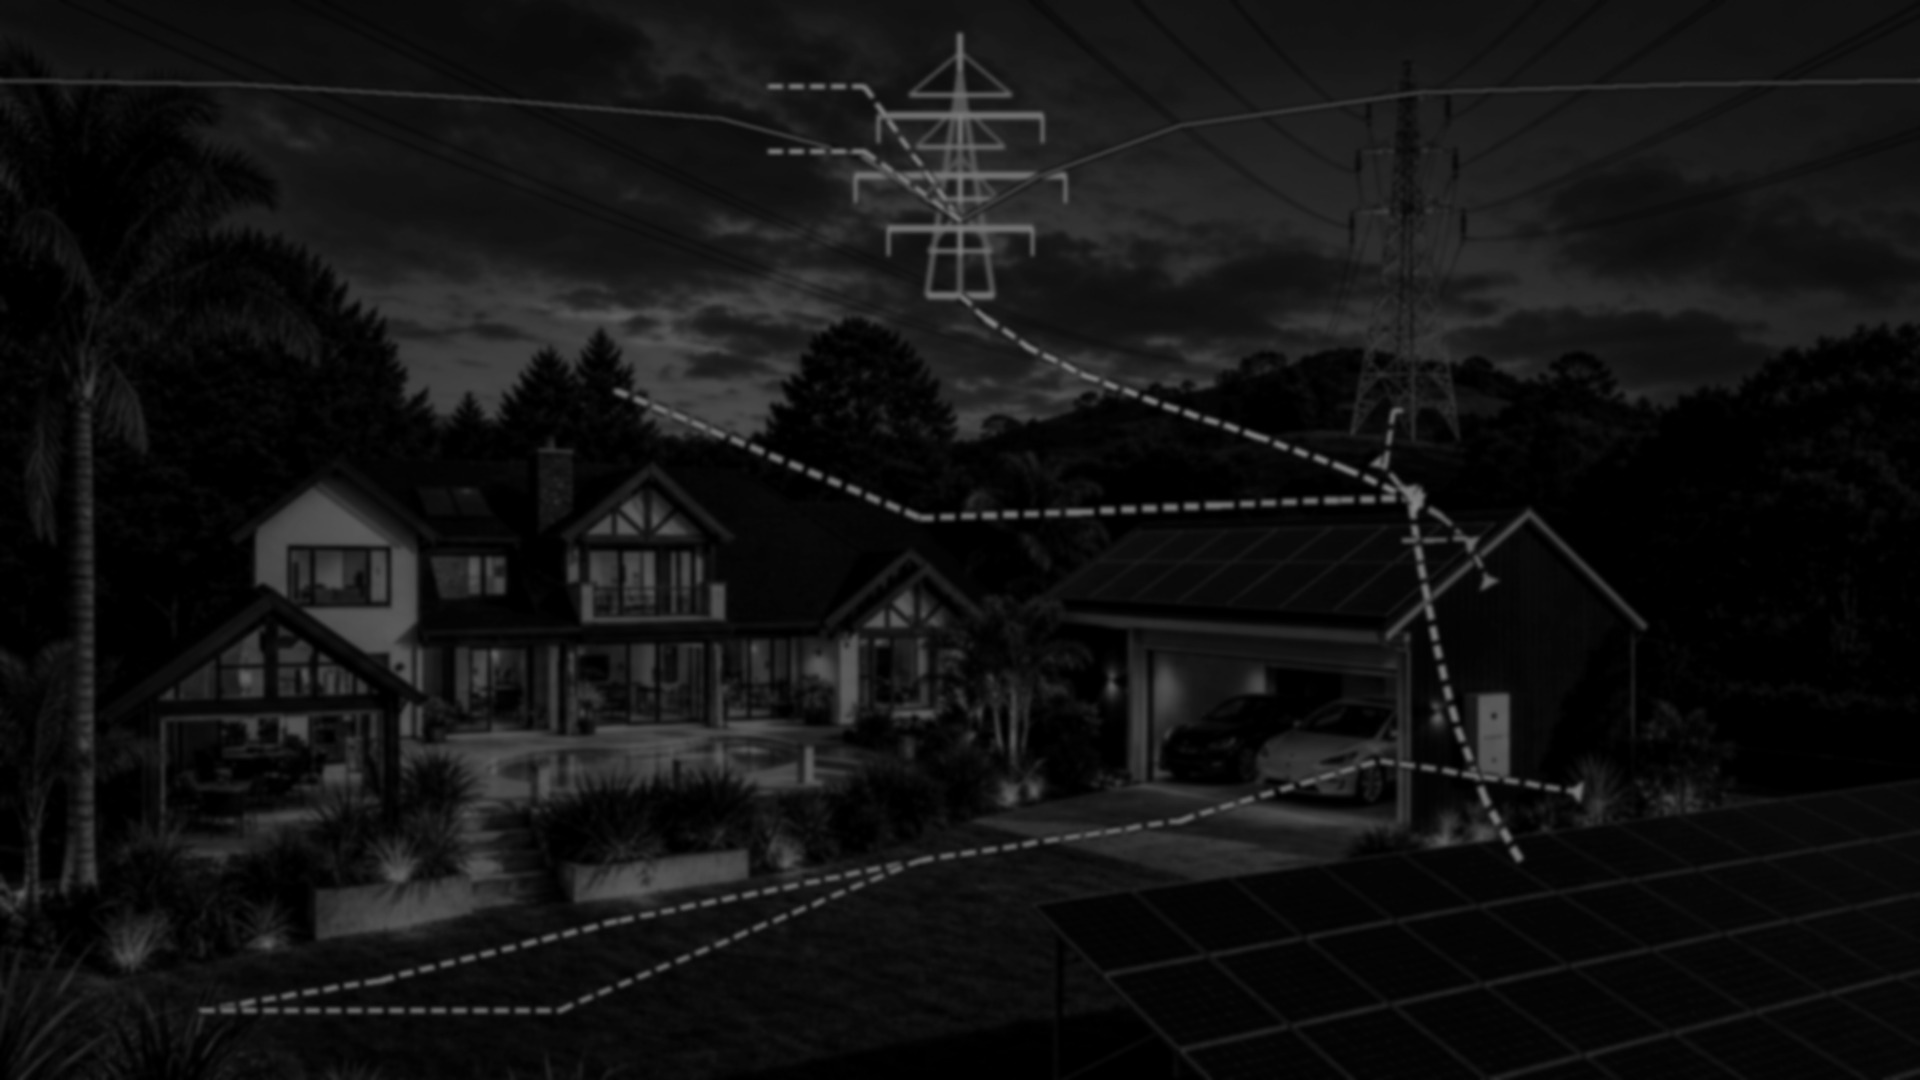
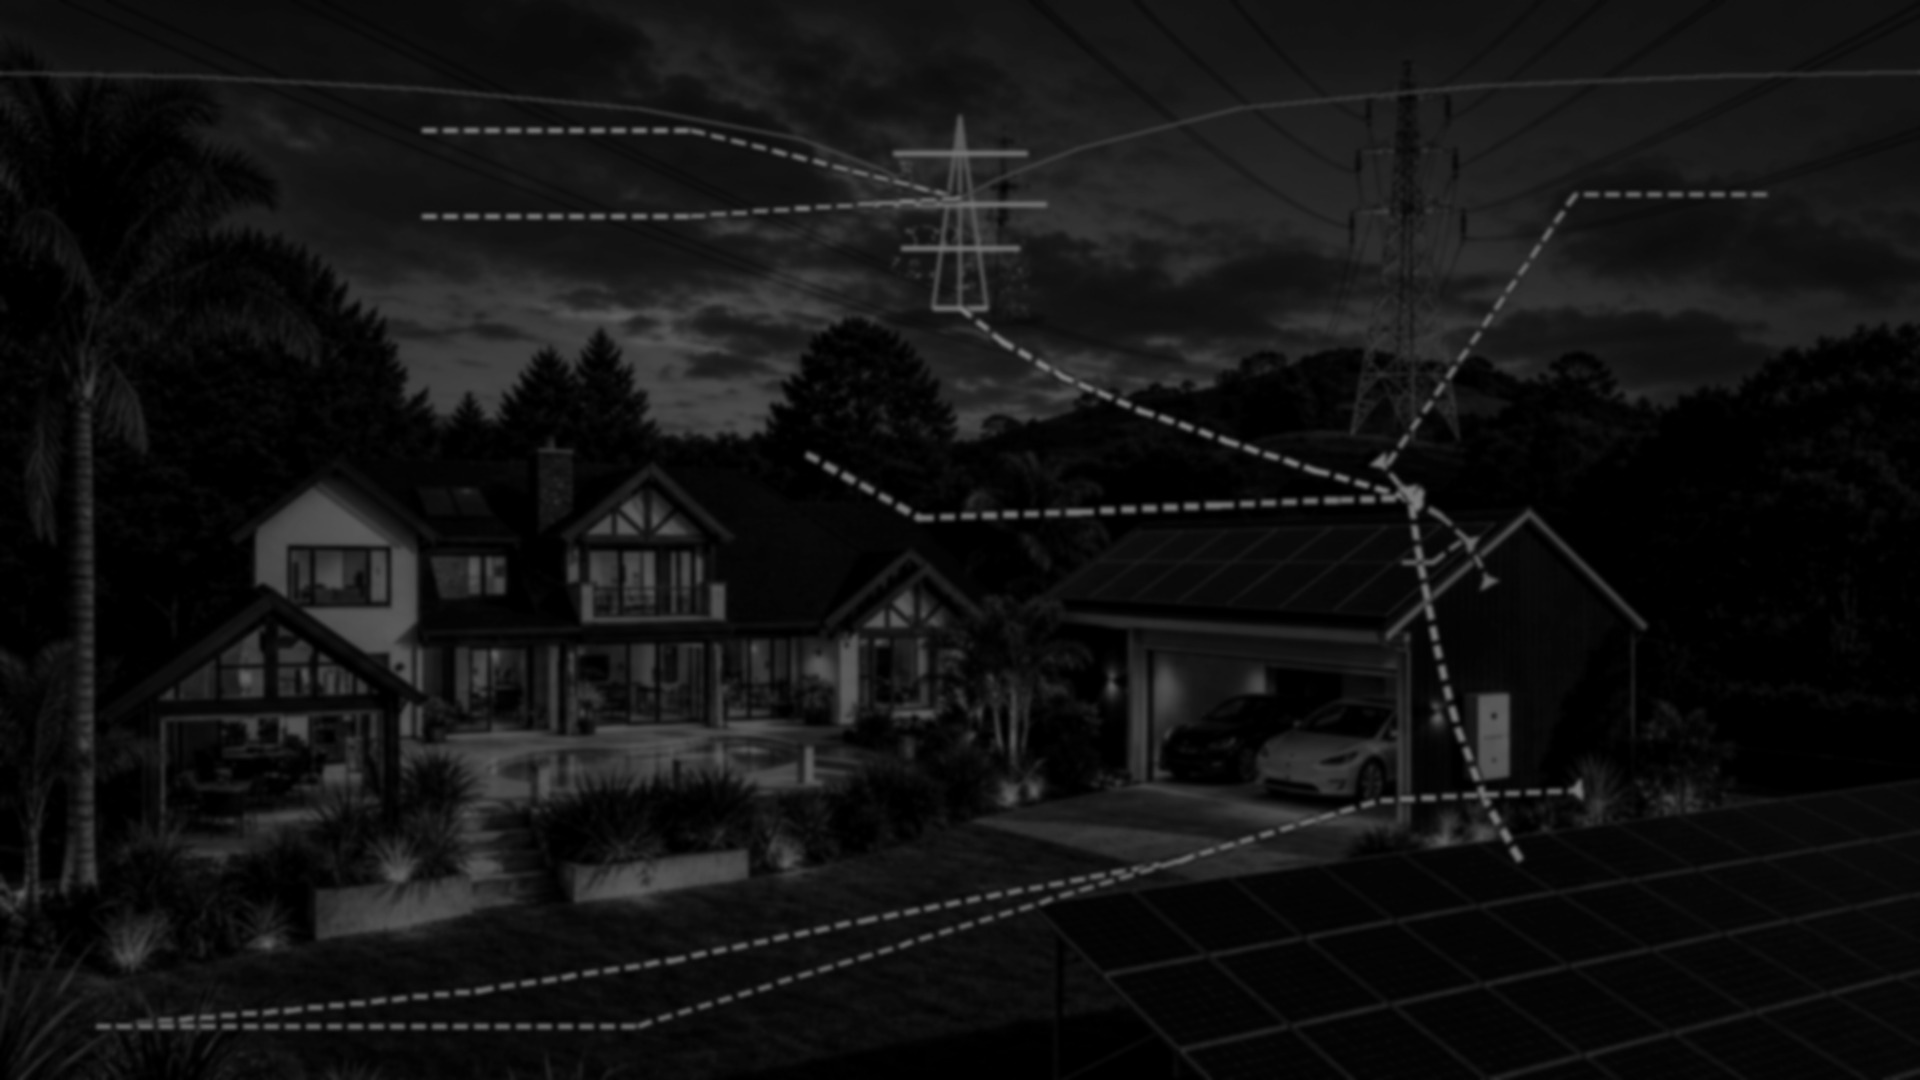
Bake lattice pylon into v4 backgrounds and Serpo card layout.
Composite reference tower sprite onto the hill with thick HV lines and white site feed to the garage; reposition cards with 5% margins so grid use sits left of the house near the tower.

diff --git a/home-assistant/solar-dashboard/scripts/build_v4_backgrounds.py b/home-assistant/solar-dashboard/scripts/build_v4_backgrounds.py
@@ -1,5 +1,5 @@
 #!/usr/bin/env python3
-"""Build v4: dark-contrast CGI + drawn lattice pylon + high-visibility flow lines."""
+"""Build v4: dark-contrast CGI + composited lattice pylon + high-visibility flow lines."""
 
 from __future__ import annotations
 
@@ -11,26 +11,34 @@ from PIL import Image, ImageDraw, ImageEnhance, ImageFilter
 
 ROOT = Path(__file__).resolve().parents[1]
 MASTER = ROOT / "www" / "solar-dashboard" / "backgrounds" / "v4" / "master-clear.png"
+PYLON_REF = ROOT / "www" / "solar-dashboard" / "assets" / "pylon-reference.png"
 OUT = ROOT / "www" / "solar-dashboard" / "backgrounds" / "v4"
 SIZE = (1920, 1080)
 
+# Hill crest (user red arrow) — lattice tower on distant hill
+PYLON_CX = 960
+PYLON_BASE_Y = 308
+PYLON_WIDTH_PX = 168
+PYLON_MAX_HEIGHT_PX = 300
+
 SITE = {
-    "pylon": (960, 220),
-    "pylon_base": (960, 295),
+    "pylon": (PYLON_CX, 198),
+    "pylon_base": (PYLON_CX, PYLON_BASE_Y),
     "inverter": (1410, 498),
     "battery_wall": (1385, 468),
     "ev_charger": (1465, 538),
     "array_field": (1570, 790),
-    "house_tie": (615, 390),
+    "house_tie": (806, 454),
 }
 
+# Pixel stubs aligned to Serpo-style card positions in solar_dashboard.yaml
 CARD_STUBS = {
-    "grid": ((768, 86), "pylon"),
-    "grid_details": ((768, 151), "pylon"),
-    "home": ((614, 389), "house_tie"),
-    "battery": ((1402, 410), "battery_wall"),
-    "garage": ((1402, 540), "ev_charger"),
-    "solar_array": ((200, 1010), "array_field"),
+    "grid": ((422, 130), "pylon"),
+    "grid_details": ((422, 216), "pylon"),
+    "home": (SITE["house_tie"], "house_tie"),
+    "battery": ((1766, 194), "battery_wall"),
+    "garage": ((1402, 562), "ev_charger"),
+    "solar_array": ((96, 1026), "array_field"),
 }
 
 ROUTES = {
@@ -43,22 +51,22 @@ ROUTES = {
         SITE["inverter"],
     ],
     "array_card_to_field": [
-        (200, 1010),
-        (380, 980),
-        (620, 920),
-        (920, 860),
-        (1180, 820),
-        (1380, 760),
+        (96, 1026),
+        (288, 1010),
+        (480, 990),
+        (672, 960),
+        (864, 920),
+        (1180, 860),
+        (1380, 800),
         SITE["array_field"],
     ],
     "grid_pylon_to_inverter": [
         SITE["pylon_base"],
-        (985, 318),
-        (1025, 345),
-        (1085, 375),
-        (1165, 405),
-        (1255, 435),
-        (1345, 468),
+        (1000, 340),
+        (1060, 375),
+        (1140, 410),
+        (1225, 440),
+        (1315, 470),
         SITE["inverter"],
     ],
     "house_to_inverter": [
@@ -75,9 +83,29 @@ ROUTES = {
 }
 
 HV_LINES = {
-    "from_left": [(0, 80), (240, 84), (480, 98), (720, 118), (860, 155), (920, 195), SITE["pylon"]],
-    "from_right": [(1919, 80), (1680, 84), (1420, 92), (1180, 125), (1040, 175), SITE["pylon"]],
+    "from_left": [
+        (0, 72),
+        (200, 76),
+        (420, 88),
+        (640, 108),
+        (800, 138),
+        (880, 168),
+        (920, 188),
+        SITE["pylon"],
+    ],
+    "from_right": [
+        (1919, 72),
+        (1720, 76),
+        (1480, 86),
+        (1240, 108),
+        (1080, 148),
+        (1000, 178),
+        SITE["pylon"],
+    ],
 }
+
+HV_COLOUR = "#2a2a30"
+HV_HIGHLIGHT = "#e0e8f0"
 
 
 def crop_16_9(img: Image.Image) -> Image.Image:
@@ -102,42 +130,89 @@ def darken_master(img: Image.Image) -> Image.Image:
     return img
 
 
+def _key_sprite_background(img: Image.Image) -> Image.Image:
+    """Make sky/water/grass transparent; keep lattice steel."""
+    out = Image.new("RGBA", img.size, (0, 0, 0, 0))
+    px_in = img.load()
+    px_out = out.load()
+    w, h = img.size
+    for y in range(h):
+        for x in range(w):
+            r, g, b, a = px_in[x, y]
+            lum = (r + g + b) / 3
+            if lum > 175 and abs(r - g) < 35 and b >= g - 10:
+                continue
+            if b > max(r, g) + 12 and b > 95:
+                continue
+            if g > 165 and r > 65 and b < 145:
+                continue
+            # Soften fringe toward dusk steel tones
+            nr = int(r * 0.82)
+            ng = int(g * 0.84)
+            nb = int(b * 0.88)
+            px_out[x, y] = (nr, ng, nb, a)
+    return out
+
+
+def prepare_pylon_sprite(ref_path: Path) -> Image.Image:
+    """Extract lattice tower from reference PNG; scale for hill composite."""
+    ref = Image.open(ref_path).convert("RGBA")
+    # Crop tower only (exclude right-hand icon and most foreground island)
+    tower = ref.crop((40, 12, 200, 355))
+    tower = _key_sprite_background(tower)
+    tw, th = tower.size
+    scale = min(PYLON_WIDTH_PX / tw, PYLON_MAX_HEIGHT_PX / th)
+    nw, nh = max(1, int(tw * scale)), max(1, int(th * scale))
+    sprite = tower.resize((nw, nh), Image.Resampling.LANCZOS)
+    rgb = ImageEnhance.Contrast(sprite.convert("RGB")).enhance(1.2)
+    rgb = ImageEnhance.Brightness(rgb).enhance(0.78)
+    sprite = Image.merge("RGBA", (*rgb.split(), sprite.split()[3]))
+    return sprite
+
+
+def composite_pylon_on_hill(base: Image.Image, sprite: Image.Image) -> Image.Image:
+    """Paste visible CGI pylon on hill crest with soft ground shadow."""
+    img = base.convert("RGBA")
+    draw = ImageDraw.Draw(img, "RGBA")
+    cx, base_y = PYLON_CX, PYLON_BASE_Y
+    x = cx - sprite.width // 2
+    y = base_y - sprite.height + 12
+
+    shadow = Image.new("RGBA", (sprite.width + 40, 28), (0, 0, 0, 0))
+    sdraw = ImageDraw.Draw(shadow)
+    sdraw.ellipse((4, 6, shadow.width - 4, shadow.height - 2), fill=(0, 0, 0, 90))
+    img.alpha_composite(shadow, (x - 20, base_y - 6))
+    img.alpha_composite(sprite, (x, y))
+    return img.convert("RGB")
+
+
+def draw_hv_line(draw: ImageDraw.ImageDraw, points: list[tuple[int, int]]) -> None:
+    """Thick transmission lines: dark core + light highlight."""
+    for i in range(len(points) - 1):
+        draw.line([points[i], points[i + 1]], fill=HV_COLOUR, width=4)
+    for i in range(len(points) - 1):
+        draw.line([points[i], points[i + 1]], fill=HV_HIGHLIGHT, width=2)
+
+
 def draw_lattice_pylon(draw: ImageDraw.ImageDraw, cx: int, base_y: int) -> None:
-    """Draw visible lattice transmission tower (reference-style) on the hill."""
-    s = 1.5
-    top = base_y - int(175 * s)
-    steel = (200, 212, 232, 255)  # #c8d4e8
-    steel_dark = (140, 152, 172, 255)
-    insulator = (240, 240, 245, 255)
-    leg = int(22 * s)
-    peak_off = int(25 * s)
+    """Subtle vector reinforcement on cross-arms (wires attach here)."""
+    s = 1.35
+    top = base_y - int(165 * s)
+    steel = (210, 220, 235, 255)
+    steel_dark = (155, 165, 180, 255)
+    leg = int(20 * s)
+    peak_off = int(22 * s)
 
-    # Main legs (A-frame)
     for dx in (-leg, 0, leg):
-        draw.line([(cx + dx, base_y), (cx, top + peak_off)], fill=steel_dark, width=int(4 * s))
-    draw.line([(cx - leg, base_y), (cx + leg, base_y)], fill=steel, width=int(5 * s))
+        draw.line([(cx + dx, base_y), (cx, top + peak_off)], fill=steel_dark, width=int(3 * s))
+    draw.line([(cx - leg, base_y), (cx + leg, base_y)], fill=steel, width=int(4 * s))
 
-    # Cross-bracing
-    brace_step = int(35 * s)
-    for y in range(base_y - int(30 * s), top + int(40 * s), -brace_step):
-        w = int((18 + (base_y - y) * 0.08) * s)
-        draw.line([(cx - w, y), (cx + w, y)], fill=steel, width=int(3 * s))
-        draw.line([(cx - w, y), (cx, y - int(28 * s))], fill=steel_dark, width=int(2 * s))
-        draw.line([(cx + w, y), (cx, y - int(28 * s))], fill=steel_dark, width=int(2 * s))
-
-    # Three cross-arms with insulators
     for arm_y, arm_w in (
-        (top + int(55 * s), int(55 * s)),
-        (top + int(95 * s), int(70 * s)),
-        (top + int(130 * s), int(48 * s)),
+        (top + int(50 * s), int(50 * s)),
+        (top + int(88 * s), int(64 * s)),
+        (top + int(120 * s), int(44 * s)),
     ):
-        draw.line([(cx - arm_w, arm_y), (cx + arm_w, arm_y)], fill=steel, width=int(5 * s))
-        for ax in (cx - arm_w, cx, cx + arm_w):
-            for iy in range(arm_y, arm_y + int(22 * s), int(6 * s)):
-                draw.line([(ax, arm_y), (ax, iy)], fill=insulator, width=int(2 * s))
-
-    # Peak
-    draw.line([(cx, top + peak_off), (cx, top)], fill=steel, width=int(4 * s))
+        draw.line([(cx - arm_w, arm_y), (cx + arm_w, arm_y)], fill=steel, width=int(4 * s))
 
 
 def glow_polyline(
@@ -179,11 +254,6 @@ def dashed_segment(draw: ImageDraw.ImageDraw, a: tuple[int, int], b: tuple[int, 
         )
 
 
-def dashed_polyline(draw: ImageDraw.ImageDraw, points: list[tuple[int, int]], colour: str, width: int = 4) -> None:
-    for i in range(len(points) - 1):
-        dashed_segment(draw, points[i], points[i + 1], colour, width)
-
-
 def arrow_head(draw: ImageDraw.ImageDraw, tip: tuple[int, int], origin: tuple[int, int], colour: str, size: int = 16) -> None:
     tx, ty = tip
     ox, oy = origin
@@ -203,23 +273,18 @@ def stub_to_target(draw: ImageDraw.ImageDraw, card: tuple[int, int], target: tup
     glow_polyline(draw, [card, mid, target], colour, width, dashed=True)
 
 
-def draw_overlays(base: Image.Image) -> Image.Image:
-    img = base.copy()
+def draw_overlays(base: Image.Image, pylon_sprite: Image.Image | None) -> Image.Image:
+    img = composite_pylon_on_hill(base, pylon_sprite) if pylon_sprite else base
     draw = ImageDraw.Draw(img, "RGBA")
 
-    cx, base_y = SITE["pylon"][0], SITE["pylon_base"][1]
-    draw_lattice_pylon(draw, cx, base_y)
+    draw_lattice_pylon(draw, PYLON_CX, PYLON_BASE_Y)
+    draw_hv_line(draw, HV_LINES["from_left"])
+    draw_hv_line(draw, HV_LINES["from_right"])
 
     amber = "#ffeb3b"
     white = "#ffffff"
     green = "#69f0ae"
-    hv_line = "#d0d8e8"
 
-    # HV transmission (solid, visible from distance)
-    glow_polyline(draw, HV_LINES["from_left"], hv_line, 3, dashed=False)
-    glow_polyline(draw, HV_LINES["from_right"], hv_line, 3, dashed=False)
-
-    # Site energy flow (dashed, thick)
     glow_polyline(draw, ROUTES["grid_pylon_to_inverter"], white, 6, dashed=True)
     glow_polyline(draw, ROUTES["solar_to_inverter"], amber, 7, dashed=True)
     glow_polyline(draw, ROUTES["array_card_to_field"], amber, 6, dashed=True)
@@ -246,7 +311,7 @@ def draw_overlays(base: Image.Image) -> Image.Image:
         elif join == "ev_charger":
             stub_to_target(draw, card_pos, SITE["ev_charger"], green)
         elif join == "array_field":
-            stub_to_target(draw, card_pos, ROUTES["array_card_to_field"][3], amber)
+            stub_to_target(draw, card_pos, ROUTES["array_card_to_field"][5], amber)
 
     return img
 
@@ -273,10 +338,18 @@ def main() -> None:
     parser = argparse.ArgumentParser()
     parser.add_argument("--master", type=Path, default=MASTER)
     parser.add_argument("--out", type=Path, default=OUT)
+    parser.add_argument("--pylon-ref", type=Path, default=PYLON_REF)
     args = parser.parse_args()
     args.out.mkdir(parents=True, exist_ok=True)
+
+    pylon_sprite = prepare_pylon_sprite(args.pylon_ref) if args.pylon_ref.is_file() else None
+    if pylon_sprite:
+        print(f"pylon sprite {pylon_sprite.size} → hill ({PYLON_CX}, {PYLON_BASE_Y})")
+    else:
+        print(f"warning: no pylon reference at {args.pylon_ref}; vector tower only")
+
     master = darken_master(crop_16_9(Image.open(args.master).convert("RGB")))
-    overlaid = draw_overlays(master)
+    overlaid = draw_overlays(master, pylon_sprite)
     for name in ("clear", "cloudy", "covered", "very_covered", "night"):
         out = variant(overlaid, name)
         out.save(args.out / f"{name}.jpg", quality=92)
